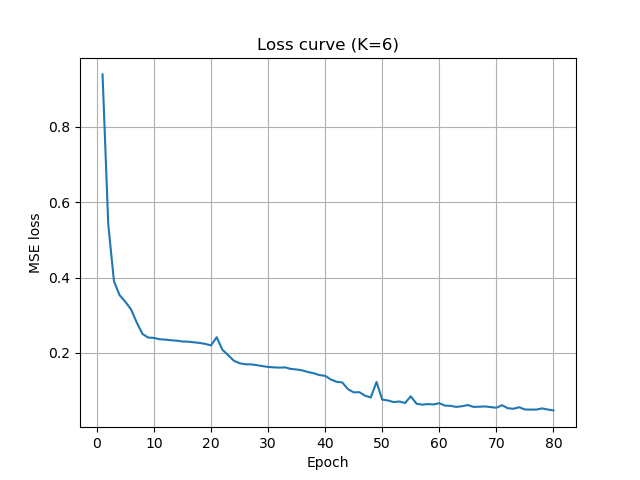
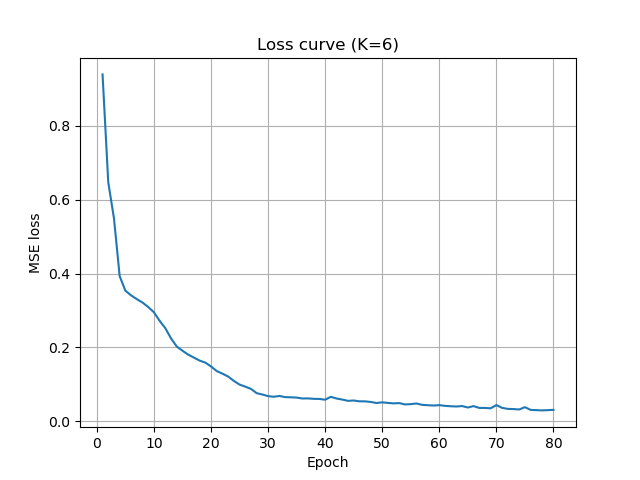
trop fort

diff --git a/Devoir 1/Main.py b/Devoir 1/Main.py
@@ -17,7 +17,7 @@ threshold = 0.03
 H1 = 8
 H2 = 7
 model_path = "./model/model.pt"
-seed = 5
+seed = 2
 train = False
 torch.manual_seed(seed)
 train_data = np.loadtxt("./dataset/shuttle.trn", dtype=np.float32)
@@ -141,7 +141,7 @@ for k in K:
         abnormal_losses_zoomed = abnormal_losses[abnormal_losses <= 2.0]
 
 
-        bins_zoomed = np.linspace(0.0, 0.5, 101)  # 100 intervals
+        bins_zoomed = np.linspace(0.0, 0.2, 101)  # 100 intervals
         bins_normal = np.linspace(0, normal_losses.max(), 1001)
         bins_abnormal = np.linspace(0, abnormal_losses.max(), 1001)
         fig, ax = plt.subplots(2, 2, figsize=(12, 4))
@@ -169,3 +169,4 @@ for k in K:
 
 
         test_loss /= len(testloader)
+    print(f"test loss : {test_loss}")
